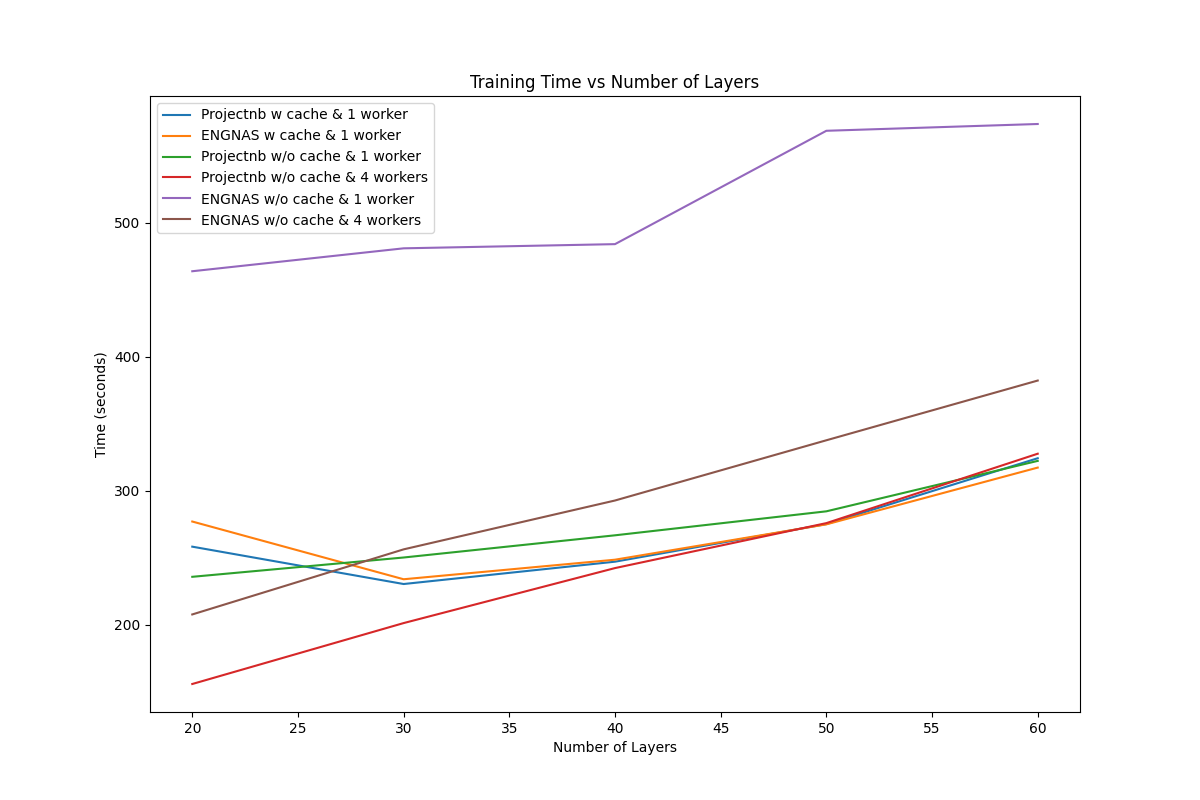
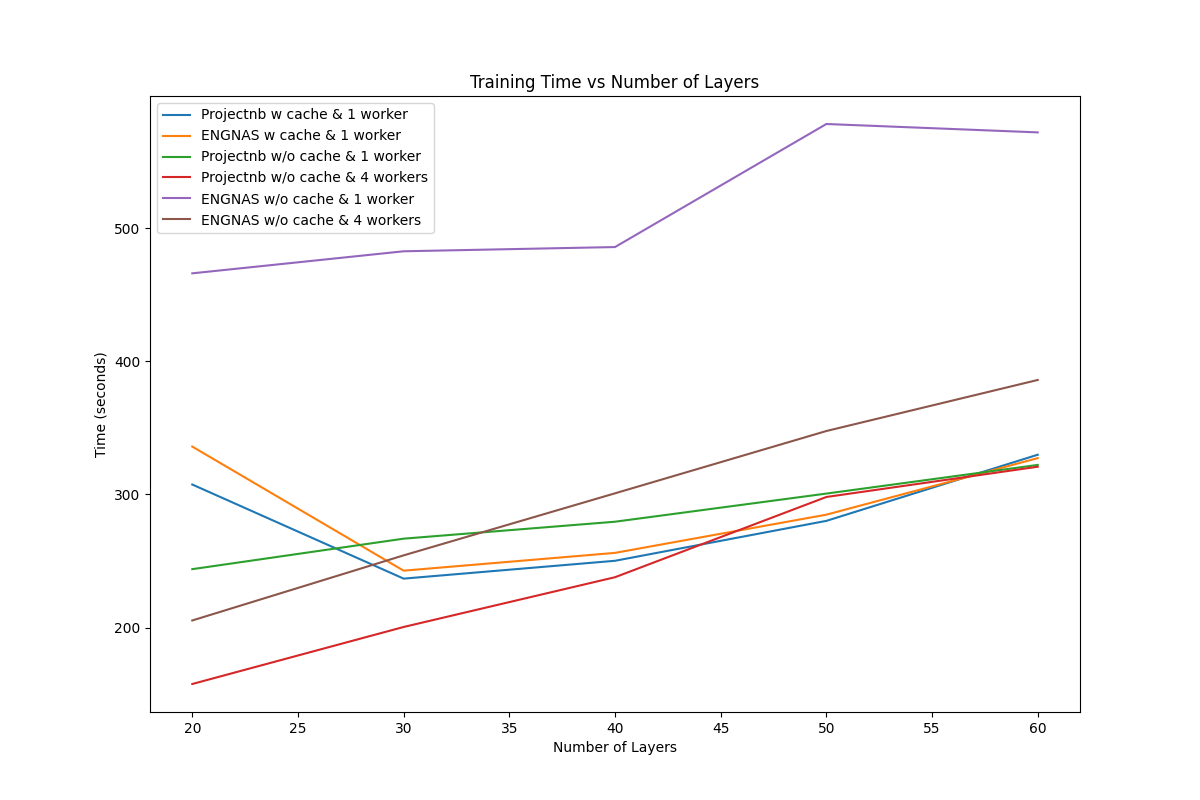
More Tests

diff --git a/cache.py b/cache.py
@@ -20,8 +20,7 @@ class DataCache:
         self.in_cache = set()
 
         # Make data directory in cache in case it doesnt exist
-        if not os.path.exists(self.cache_path):
-            os.makedirs(self.cache_path)
+        os.makedirs(self.cache_path, exist_ok=True)
     
     # Copy data to cache if not already in and then return cache path
     def validate_cache(self, fname: str):
@@ -114,7 +113,7 @@ def train_model(num_layers, input_channels, data_path, cache_path, use_cache, nu
         transforms.Resize((28, 28))
     ])
     dataset = CustomImageDataset(data_path=data_path, cache_path=cache_path, use_cache=use_cache, ground_truth=ground_truth_path, transform=transform)
-    train_loader = DataLoader(dataset, batch_size=128, shuffle=True, num_workers=num_workers, persistent_workers=True)
+    train_loader = DataLoader(dataset, batch_size=128, prefetch_factor=4, shuffle=True, num_workers=num_workers, persistent_workers=True)
     
     model = SimpleCNN(num_conv_layers=num_layers, input_channels=input_channels)
     criterion = nn.CrossEntropyLoss()
